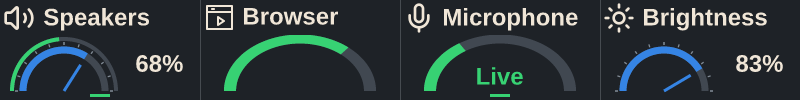
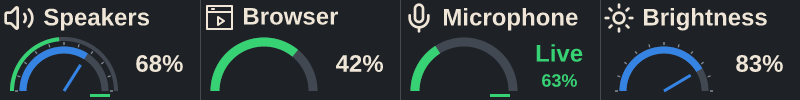
Restore right-side volume percentage for single-arc meters

Changed region(s): [[0.25, 0.33, 0.75, 0.93]]

diff --git a/apps/decksmith-daemon/src/pages.rs b/apps/decksmith-daemon/src/pages.rs
@@ -1333,34 +1333,18 @@ impl Pages {
                     if let Some(appearance) = &self.effective_dials().unwrap()[index].appearance {
                         style.apply(appearance);
                     }
-                    let meter_only = self.effective_dials().unwrap()[index].display_style
-                        == DisplayStyle::SingleArc;
-                    let (left, right, top, bottom) = if meter_only {
-                        (52, 148, 60, 92)
-                    } else {
-                        (119, 200, 34, 94)
-                    };
-                    for y in top..bottom {
-                        for x in left..right {
+                    for y in 34..94 {
+                        for x in 119..200 {
                             panel[(y * 200 + x) * 3..(y * 200 + x) * 3 + 3]
                                 .copy_from_slice(&style.background);
                         }
                     }
-                    if meter_only {
-                        crate::key_text::draw_meter_status(
-                            &mut panel,
-                            "No Audio",
-                            style.color,
-                            style.typography(),
-                        );
-                    } else {
-                        crate::key_text::draw_gauge_value(
-                            &mut panel,
-                            "No Audio",
-                            style.color,
-                            style.typography(),
-                        );
-                    }
+                    crate::key_text::draw_gauge_value(
+                        &mut panel,
+                        "No Audio",
+                        style.color,
+                        style.typography(),
+                    );
                     for y in 34..94 {
                         let start = (y * 800 + index * 200) * 3;
                         strip[start..start + 600].copy_from_slice(&panel[y * 600..(y + 1) * 600]);
@@ -1514,23 +1498,7 @@ impl Pages {
                 } else {
                     style.accent
                 };
-                if meter_only {
-                    let status = if audio.is_some_and(|state| state.muted) {
-                        "Muted"
-                    } else if live {
-                        "Live"
-                    } else if audio.is_none() {
-                        "--"
-                    } else {
-                        ""
-                    };
-                    crate::key_text::draw_meter_status(
-                        &mut panel,
-                        status,
-                        value_color,
-                        style.typography(),
-                    );
-                } else if gauge {
+                if gauge {
                     crate::key_text::draw_gauge_value(
                         &mut panel,
                         &value,
@@ -3719,7 +3687,7 @@ mod tests {
         assert_eq!(p.index, 1);
     }
     #[test]
-    fn single_meter_ignores_volume_but_preserves_actions_and_device_pixels() {
+    fn single_meter_keeps_volume_readout_actions_and_device_pixels() {
         let mut value: serde_json::Value =
             serde_json::from_slice(include_bytes!("../../../config/audio.json")).unwrap();
         let dial = serde_json::json!({"label":"Microphone", "rotation":"volume", "step":1,
@@ -3730,7 +3698,7 @@ mod tests {
         let mut pages = Pages::parse(&bytes).unwrap();
         let mut deck = decksmith_device::VirtualDeck::default();
         pages.show(&mut deck, 0).unwrap();
-        let mut baseline = None;
+        let mut baseline: Option<Vec<u8>> = None;
         for percent in [0, 68, 100] {
             pages.apply_targets(vec![(
                 "input:mic".into(),
@@ -3754,10 +3722,35 @@ mod tests {
                 .unwrap();
             assert_eq!(preview, deck.touch_image());
             if let Some(previous) = &baseline {
-                assert_eq!(
-                    &preview, previous,
-                    "meter-only display must not change with volume"
-                );
+                assert_ne!(&preview, previous, "configured percentage must update");
+                for y in 35..94 {
+                    for panel in 0..4 {
+                        let left = (y * 800 + panel * 200) * 3;
+                        assert_eq!(
+                            &preview[left..left + 119 * 3],
+                            &previous[left..left + 119 * 3],
+                            "configured volume must not change the signal arc"
+                        );
+                    }
+                }
+            }
+            let mut dual = value.clone();
+            for dial in dual["dials"].as_array_mut().unwrap() {
+                dial["display_style"] = serde_json::json!("dual_arc");
+            }
+            let dual_preview = Pages::parse(&serde_json::to_vec(&dual).unwrap())
+                .unwrap()
+                .preview_touch(0, pages.touch_state())
+                .unwrap();
+            for y in 35..94 {
+                for panel in 0..4 {
+                    let right = (y * 800 + panel * 200 + 119) * 3;
+                    assert_eq!(
+                        &preview[right..right + 81 * 3],
+                        &dual_preview[right..right + 81 * 3],
+                        "single and dual styles must share the percentage/Live readout"
+                    );
+                }
             }
             baseline = Some(preview);
         }

diff --git a/apps/decksmith-daemon/src/dial_gauge.rs b/apps/decksmith-daemon/src/dial_gauge.rs
@@ -34,7 +34,7 @@ fn geometry() -> &'static Geometry {
         Geometry {
             volume: arc(41., 7., 64., 1.),
             signal: arc(52., 4., 64., 1.),
-            meter: arc(52., 9., 100., 70. / 52.),
+            meter: arc(49., 9., 64., 1.),
             ticks: mask(ticks.finish().unwrap(), 1.3),
             pointers: std::array::from_fn(|n| {
                 let angle = std::f32::consts::PI * n as f32 / 100.;
@@ -166,7 +166,7 @@ pub fn draw_signal(rgb: &mut [u8], level: Option<u8>, muted: bool) {
     }
 }
 
-/// Meter-only panels have one centered signal track, without a volume pointer.
+/// Meter-only panels have one left-hand signal track, without a volume pointer.
 pub fn draw_meter_base(rgb: &mut [u8]) {
     draw_arc(rgb, &geometry().meter, 100, TRACK);
 }
@@ -181,8 +181,8 @@ pub fn draw_meter_signal(rgb: &mut [u8], level: Option<u8>, muted: bool) {
         draw_arc(rgb, &geometry().meter, value.min(100), color);
     } else {
         // A missing measurement must remain distinct from measured silence.
-        for y in 85..87 {
-            for x in 95..105 {
+        for y in 76..78 {
+            for x in 59..69 {
                 rgb[(y * 200 + x) * 3..(y * 200 + x) * 3 + 3].copy_from_slice(&[150, 160, 170]);
             }
         }
@@ -252,11 +252,11 @@ mod tests {
             draw_meter_signal(&mut live, Some(value), false);
             assert_eq!(&live[..35 * 600], &background[..35 * 600]);
             assert_eq!(&live[94 * 600..], &background[94 * 600..]);
-            for y in 60..92 {
+            for y in 0..100 {
                 assert_eq!(
-                    &live[(y * 200 + 52) * 3..(y * 200 + 148) * 3],
-                    &base[(y * 200 + 52) * 3..(y * 200 + 148) * 3],
-                    "live arc must leave the centered status clear"
+                    &live[(y * 200 + 119) * 3..(y + 1) * 600],
+                    &background[(y * 200 + 119) * 3..(y + 1) * 600],
+                    "live arc must leave the percentage/status column clear"
                 );
             }
         }

diff --git a/apps/decksmith-studio/dials.py b/apps/decksmith-studio/dials.py
@@ -48,7 +48,7 @@ class DialControls(Gtk.Box):
         appearance=Adw.PreferencesGroup();box.append(appearance)
         self.appearance_group=Adw.ExpanderRow(title='Appearance',subtitle='Gauge style, font and colors');appearance.add(self.appearance_group)
         self.display_style=Adw.ComboRow(title='Touch-strip style',model=Gtk.StringList.new(['Dual-arc gauge','Classic bar','Single-arc meter']))
-        self.display_style.set_tooltip_text('Dual-arc: volume plus audio activity. Single-arc: audio activity only; assigned dial actions stay unchanged. Classic bar keeps the previous display. Brightness retains its setting arc.')
+        self.display_style.set_tooltip_text('Dual-arc: volume plus audio activity. Single-arc: one audio activity arc with configured percentage on the right; assigned dial actions stay unchanged. Classic bar keeps the previous display. Brightness retains its setting arc.')
         self.display_style.connect('notify::selected',self.changed);self.appearance_group.add_row(self.display_style)
         from theme_dialog import StyleRows
         self.style_rows=StyleRows(self.appearance_group,lambda:self.data[self.index].get('appearance',{}),self.style_changed,('font','size','label_color','background_color'))

diff --git a/apps/decksmith-daemon/src/key_text.rs b/apps/decksmith-daemon/src/key_text.rs
@@ -145,32 +145,6 @@ pub fn draw_gauge_value(rgb: &mut [u8], label: &str, color: [u8; 3], typography:
     }
 }
 
-/// Keep meter-only status inside the arc, away from the title and live fill.
-pub fn draw_meter_status(rgb: &mut [u8], label: &str, color: [u8; 3], typography: Typography) {
-    let mut center = Vec::with_capacity(96 * 32 * 3);
-    for y in 60..92 {
-        center.extend_from_slice(&rgb[(y * 200 + 52) * 3..(y * 200 + 148) * 3]);
-    }
-    draw_canvas(
-        &mut center,
-        label,
-        color,
-        Canvas {
-            left_aligned: false,
-            width: 96,
-            height: 32,
-            anchor: 1,
-            size: 24. * typography.scale,
-            font: typography.font,
-            backing: false,
-        },
-    );
-    for y in 0..32 {
-        rgb[((y + 60) * 200 + 52) * 3..((y + 60) * 200 + 148) * 3]
-            .copy_from_slice(&center[y * 96 * 3..(y + 1) * 96 * 3]);
-    }
-}
-
 /// Start titles at x=44, leaving a consistent gap after the 36-pixel icon area.
 #[allow(dead_code)] // The key-only caption example does not use audio titles.
 pub fn draw_strip_audio_title(rgb: &mut [u8], label: &str) {

diff --git a/docs/checkpoints/2026-10-09-single-arc-meter.md b/docs/checkpoints/2026-10-09-single-arc-meter.md
@@ -7,12 +7,14 @@ turn and press actions. **Single-arc meter** is an additional per-dial style;
 Dual-arc gauge remains the default and Classic bar remains available. Shared
 settings and page overrides follow the existing effective-dial resolver.
 
-The audio presentation has one wider centered activity arc, with no volume
-percentage or pointer. Target icon/label, red crossed-out mute icon and Muted
-text, green microphone Live text and input/output default marker remain.
+After reviewing the first installation, the user requested restoring the dial
+percentage to the right of the single arc. The revised audio presentation has
+one wider left-hand activity arc, with configured volume on its right and no
+second volume arc or pointer. Target icon/label, red crossed-out mute icon and
+Muted text, green microphone Live text and input/output default marker remain.
 Silent measured signal, missing measurement and No Audio remain distinct.
-The live arc cannot overwrite its centered status. Device brightness keeps a
-setting gauge because it has no audio measurement. Plugin displays are unchanged.
+The live arc cannot overwrite its right-hand percentage/status column. Device
+brightness keeps a setting gauge because it has no audio measurement. Plugin displays are unchanged.
 
 This is a presentation choice, not a new volume/mute action or calibrated
 loudness meter. The signal uses the existing normalized peak scale and colors.
@@ -25,8 +27,8 @@ Strict all-feature formatting/lint and 146 Rust tests passed; three existing
 hardware/long diagnostics were ignored. The 171 editor tests passed, along with
 dependency advisory, license, ban and source checks. New checks cover every
 integer meter level, silence versus unavailable measurement, mute suppression,
-status clearance, independence from volume percentage, device/preview byte
-parity, unchanged action bindings, shared/page override history and package
+status clearance, signal independence from configured volume, updating volume
+readouts matching Dual-arc, device/preview byte parity, unchanged action bindings, shared/page override history and package
 round-trip. Existing dual-arc/classic behavior remains covered.
 
 An isolated Fedora 44 VM install passed runtime integrity/dependency checks,
@@ -40,7 +42,16 @@ bundle `1.0.0-55993ea45866` was installed, retaining the previous build and a
 configuration backup. Saved configuration/artwork hashes were unchanged, and
 the physical Deck connected with its display ready. Existing assignments were
 preserved; the user chooses Single-arc explicitly in Appearance and Save and
-Apply. Physical acceptance of the new style is pending.
+Apply. The user reported the missing percentage during physical review.
+
+The corrected local bundle `1.0.0-80b6faedd10b` restores the configured percentage
+on the right of the single signal arc. All 146 Rust and 171 editor tests passed
+again with strict all-feature lint/format checks. Synthetic live/muted captures
+match the shared physical renderer; every integer level leaves the value column
+clear. Installation retained the preceding test build and a fresh configuration
+backup. Saved configuration/artwork hashes remained unchanged, and the physical
+Deck reconnected with its display ready. Physical acceptance of this revision is
+pending; the earlier native selector/persistence VM checks remain applicable.
 
 Existing signed Fedora V1, Debian, Ubuntu and COSMIC release assets are unchanged.
 The COSMIC preview includes Dual-arc and Classic bar; Single-arc is subsequent

diff --git a/docs/audio-meters.md b/docs/audio-meters.md
@@ -13,9 +13,9 @@ gauge** without rewriting saved assignments. **Classic bar** remains available
 per dial, including shared defaults and page overrides.
 
 The current development build also offers **Single-arc meter** for audio targets.
-It shows one wider centered arc of measured audio activity, without a volume
-percentage or pointer. Existing turn/press actions, target selections and labels
-stay unchanged. Microphone Live and Muted status remains centered inside the arc;
+It shows one wider left-hand arc of measured audio activity, with the configured
+volume percentage on its right and no second volume arc or pointer. Existing turn/press actions, target selections and labels
+stay unchanged. Microphone Live and Muted status uses the same right-hand column as Dual-arc;
 missing/silent measurements and No Audio retain distinct states without a yellow
 border. Its geometry is cached once and the sampling budget is unchanged.
 Brightness remains a setting gauge because it has no audio signal to meter.

diff --git a/README.md b/README.md
@@ -49,11 +49,11 @@ The original Fedora V1, Debian and Ubuntu downloads retain their earlier display
 [Meter behavior and limitations](docs/audio-meters.md).
 
 **Also in development: Single-arc meter.** One wider arc displays audio activity
-only, with no volume percentage or pointer; assigned turn/press actions stay
+with the configured volume percentage on its right and no volume arc or pointer; assigned turn/press actions stay
 unchanged. Choose it from the same Touch-strip style selector. It is newer than
 the published COSMIC preview.
 
-![Decksmith mixed touch-strip styles: dual-arc speakers, single-arc browser and microphone Live meters, and brightness](docs/images/decksmith-single-arc-meter.png?v=1fe80e63f8f8)
+![Decksmith mixed touch-strip styles: dual-arc speakers, single-arc browser and microphone Live meters, and brightness](docs/images/decksmith-single-arc-meter.png?v=50e23c1281bb)
 
 ## Watch Decksmith V1
 

diff --git a/docs/images/README.md b/docs/images/README.md
@@ -53,5 +53,7 @@ remain useful for layout and the available Classic bar presentation.
 `decksmith-single-arc-meter.png` uses the same private capture method and synthetic
 values with the current development renderer. Speakers retain Dual-arc, Browser
 and Microphone use Single-arc meter, and Brightness retains its setting gauge.
-The image verifies mixed styles without changing assigned actions. Single-arc
+The single activity arcs sit left of the configured volume percentage; microphone
+Live/Muted uses the same right-hand readout as Dual-arc. The image verifies mixed
+styles without changing assigned actions. Single-arc
 is newer than the published COSMIC preview; the existing signed assets are unchanged.

diff --git a/docs/ROADMAP.md b/docs/ROADMAP.md
@@ -20,7 +20,8 @@ change system routing.
 
 **October 9 checkpoint:** the dual-arc design is implemented in a local test build,
 with the classic bar available per dial. A subsequent Single-arc meter option
-shows audio activity only while preserving assigned turn/press actions. It passes
+shows one audio activity arc with the configured percentage on its right, while
+preserving assigned turn/press actions. It passes
 rendering, scope/persistence and Fedora VM native-selector checks; physical
 acceptance remains pending. Existing public release assets are unchanged. Cached arc geometry and pointer masks
 keep the existing meter sampling rate; preview/device pixel parity, all integer
